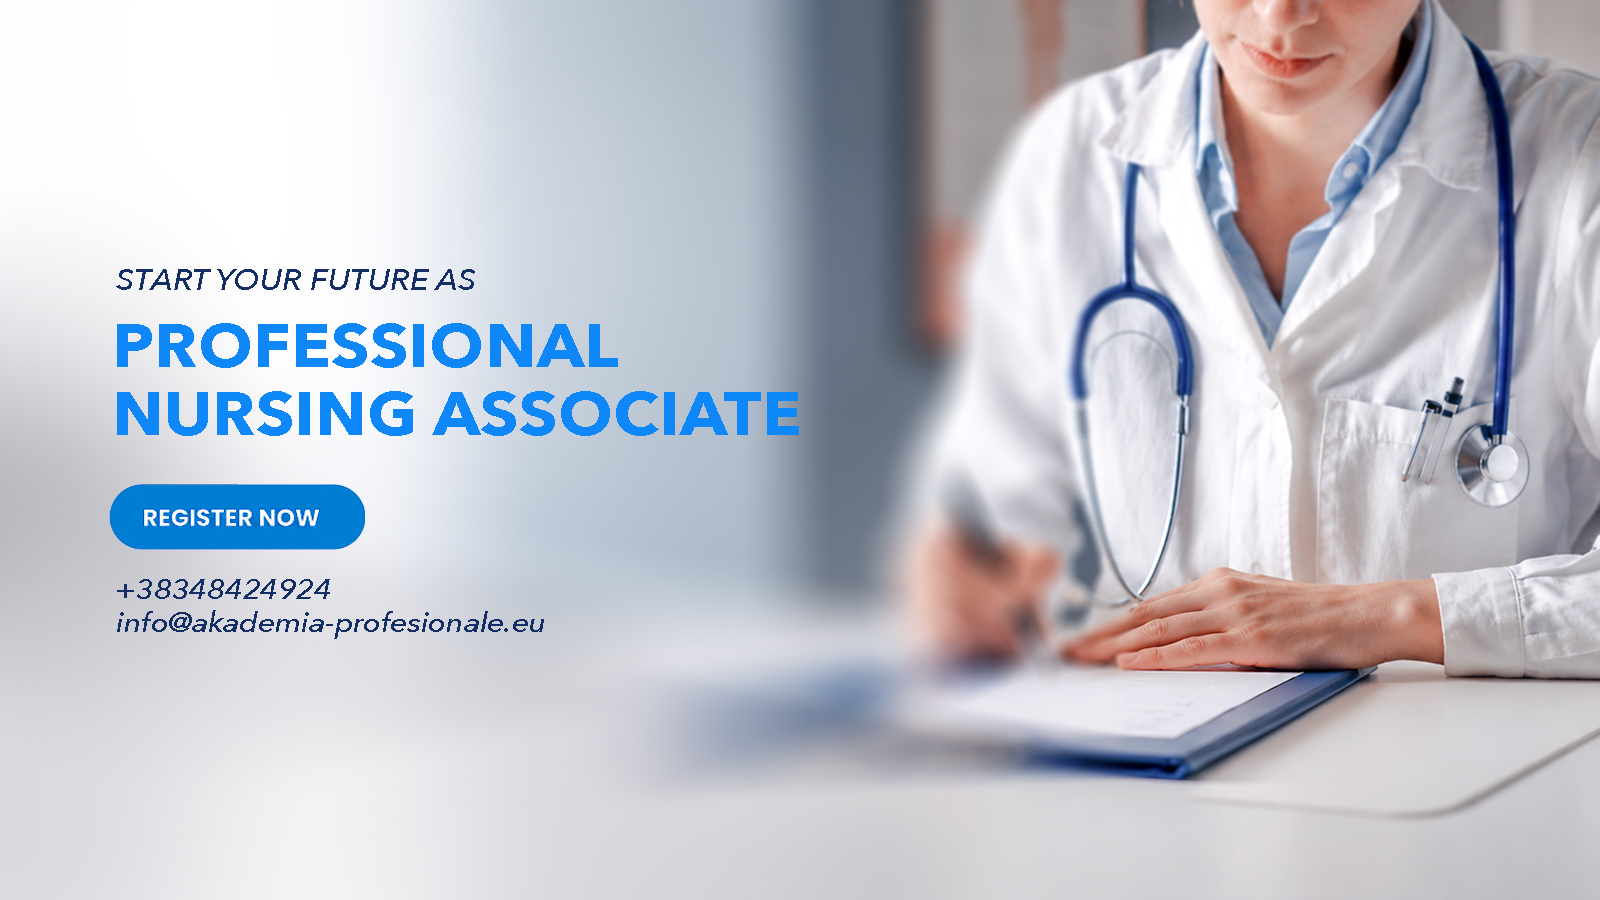
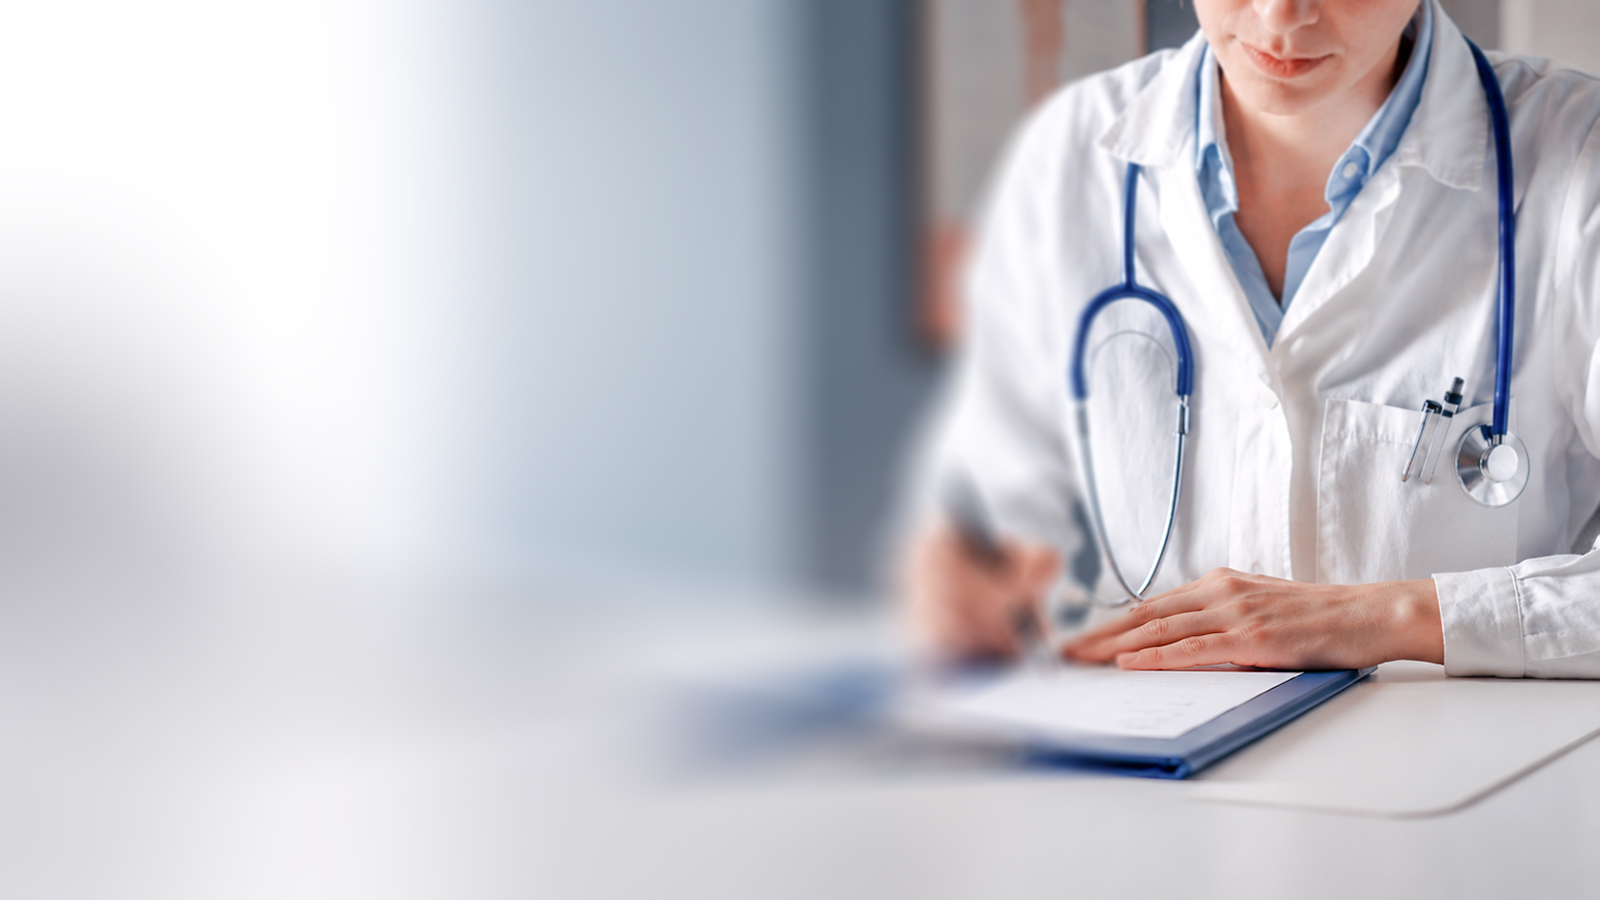
Add files via upload

Changed region(s): [[0.0625, 0.5289, 0.3438, 0.7156], [0.0625, 0.28, 0.375, 0.4044], [0.0625, 0.4356, 0.5, 0.4978]]

diff --git a/src/components/Hero.tsx b/src/components/Hero.tsx
@@ -1,5 +1,15 @@
 import React, { useState, useEffect } from 'react';
-import { ChevronLeft, ChevronRight, ArrowRight } from 'lucide-react';
+import { ChevronLeft, ChevronRight, Phone, Mail } from 'lucide-react';
+
+interface SlideData {
+  url: string;
+  alt: string;
+  subtitle: string;
+  title: string;
+  buttonColor: string;
+  buttonHoverColor: string;
+  buttonText: string;
+}
 
 export function Hero({ onApplyClick }: { onApplyClick?: () => void }) {
   const [imgUrls, setImgUrls] = useState<string[]>([
@@ -14,18 +24,33 @@ export function Hero({ onApplyClick }: { onApplyClick?: () => void }) {
     "https://images.unsplash.com/photo-1516534775068-ba3e84589d90?w=1600&h=900&fit=crop&q=80"
   ];
 
-  const images = [
+  const slides: SlideData[] = [
     {
       url: imgUrls[0],
-      alt: "Cheerful college students studying together"
+      alt: "Professional Nursing Associate - Akademia Profesionale Heimerer",
+      subtitle: "START YOUR FUTURE AS",
+      title: "PROFESSIONAL NURSING ASSOCIATE",
+      buttonColor: "bg-[#0084FF]",
+      buttonHoverColor: "hover:bg-[#0070E0]",
+      buttonText: "REGISTER NOW"
     },
     {
       url: imgUrls[1],
-      alt: "College student group collaborating"
+      alt: "Physiotherapy Assistant - Akademia Profesionale Heimerer",
+      subtitle: "START YOUR FUTURE AS",
+      title: "PHYSIOTHERAPY ASSISTANT",
+      buttonColor: "bg-[#F95700]",
+      buttonHoverColor: "hover:bg-[#E04E00]",
+      buttonText: "REGISTER NOW"
     },
     {
       url: imgUrls[2],
-      alt: "Youth students laughing at college campus"
+      alt: "Medical Laboratory Technician - Akademia Profesionale Heimerer",
+      subtitle: "START YOUR FUTURE AS",
+      title: "MEDICAL LABORATORY TECHNICIAN",
+      buttonColor: "bg-[#4EA81A]",
+      buttonHoverColor: "hover:bg-[#439316]",
+      buttonText: "REGISTER NOW"
     }
   ];
 
@@ -34,10 +59,10 @@ export function Hero({ onApplyClick }: { onApplyClick?: () => void }) {
   // Auto-scroll images every 5 seconds
   useEffect(() => {
     const interval = setInterval(() => {
-      setCurrentIndex((prev) => (prev + 1) % images.length);
+      setCurrentIndex((prev) => (prev + 1) % slides.length);
     }, 5000);
     return () => clearInterval(interval);
-  }, [images.length]);
+  }, [slides.length]);
 
   const handleImageError = (index: number) => {
     setImgUrls(prev => {
@@ -51,24 +76,24 @@ export function Hero({ onApplyClick }: { onApplyClick?: () => void }) {
 
   const handlePrev = (e: React.MouseEvent) => {
     e.stopPropagation();
-    setCurrentIndex((prev) => (prev - 1 + images.length) % images.length);
+    setCurrentIndex((prev) => (prev - 1 + slides.length) % slides.length);
   };
 
   const handleNext = (e: React.MouseEvent) => {
     e.stopPropagation();
-    setCurrentIndex((prev) => (prev + 1) % images.length);
+    setCurrentIndex((prev) => (prev + 1) % slides.length);
   };
 
   return (
     <section className="pt-2 pb-4 lg:pt-4 lg:pb-8 overflow-x-hidden bg-bg">
-      <div className="max-w-[96%] xl:max-w-[1400px] mx-auto px-4 sm:px-6 lg:px-8">
+      <div className="max-w-[96%] xl:max-w-[1400px] mx-auto px-2 sm:px-6 lg:px-8">
         
-        {/* Full-width container with 20% less height than 16:9 (aspect-[2.2/1] on large screens) */}
-        <div className="relative bg-white rounded-[2.5rem] flex flex-col justify-center overflow-hidden border border-border/40 min-h-[460px] lg:min-h-0 lg:aspect-[2.2/1] group">
+        {/* Full-width container with ~35% height reduction on mobile (min-h-[290px] sm:min-h-[380px] lg:min-h-0 lg:aspect-[2.2/1]) */}
+        <div className="relative bg-white rounded-[1.8rem] sm:rounded-[2.5rem] flex flex-col justify-center overflow-hidden border border-border/40 min-h-[290px] sm:min-h-[380px] lg:min-h-0 lg:aspect-[2.2/1] group shadow-sm">
           
           {/* Background image slider */}
           <div className="absolute inset-0 w-full h-full z-0">
-            {images.map((image, index) => (
+            {slides.map((slide, index) => (
               <div
                 key={index}
                 className={`absolute inset-0 w-full h-full transition-opacity duration-1000 ease-in-out ${
@@ -76,8 +101,8 @@ export function Hero({ onApplyClick }: { onApplyClick?: () => void }) {
                 }`}
               >
                 <img 
-                  src={image.url} 
-                  alt={image.alt} 
+                  src={slide.url} 
+                  alt={slide.alt} 
                   className="w-full h-full object-cover object-center"
                   referrerPolicy="no-referrer"
                   onError={() => handleImageError(index)}
@@ -85,31 +110,80 @@ export function Hero({ onApplyClick }: { onApplyClick?: () => void }) {
               </div>
             ))}
           </div>
+
+          {/* Left light gradient mask ensuring clean legibility for overlay text */}
+          <div className="absolute inset-0 z-1 bg-gradient-to-r from-white/95 via-white/85 to-transparent sm:from-white/90 sm:via-white/60 lg:via-white/30 max-w-full sm:max-w-[70%] pointer-events-none" />
           
-          {/* Content panel - Removed to allow custom text within slide images directly */}
-          <div className="relative z-10 w-full lg:w-[55%] p-8 sm:p-12 lg:p-20 flex flex-col justify-center h-full rounded-[2.5rem]" />
+          {/* Slide Text Content Overlay */}
+          <div className="relative z-10 w-full sm:w-[68%] lg:w-[55%] p-5 sm:p-10 lg:p-16 flex flex-col justify-center h-full">
+            {slides.map((slide, index) => (
+              <div
+                key={index}
+                className={`transition-all duration-700 ease-out flex flex-col justify-center ${
+                  index === currentIndex 
+                    ? 'opacity-100 translate-x-0' 
+                    : 'opacity-0 -translate-x-4 absolute pointer-events-none'
+                }`}
+              >
+                {/* Subtitle */}
+                <span className="font-sans italic font-bold tracking-wider text-slate-800 text-[11px] sm:text-sm lg:text-base uppercase">
+                  {slide.subtitle}
+                </span>
+
+                {/* Main Program Title */}
+                <h1 className="font-sans font-extrabold uppercase text-[#0084FF] text-lg sm:text-2xl md:text-3xl lg:text-4xl xl:text-[2.6rem] leading-[1.1] sm:leading-tight my-1.5 sm:my-3 max-w-lg">
+                  {slide.title}
+                </h1>
+
+                {/* Action Register Button */}
+                <div className="mt-1 sm:mt-2">
+                  <button
+                    onClick={onApplyClick}
+                    className={`inline-flex items-center justify-center px-5 py-2 sm:px-7 sm:py-2.5 rounded-full text-white font-black text-[11px] sm:text-xs lg:text-sm uppercase tracking-wider shadow-md ${slide.buttonColor} ${slide.buttonHoverColor} hover:shadow-lg transition-all transform hover:-translate-y-0.5 cursor-pointer active:scale-95`}
+                  >
+                    {slide.buttonText}
+                  </button>
+                </div>
+
+                {/* Contact Phone & Email */}
+                <div className="mt-2.5 sm:mt-4 space-y-0.5 font-sans italic text-slate-800 text-[11px] sm:text-xs lg:text-sm font-semibold">
+                  <div>
+                    <a href="tel:+38348424924" className="hover:text-primary transition-colors inline-flex items-center gap-1.5">
+                      +38348424924
+                    </a>
+                  </div>
+                  <div>
+                    <a href="mailto:info@akademia-profesionale.eu" className="hover:text-primary transition-colors inline-flex items-center gap-1.5">
+                      info@akademia-profesionale.eu
+                    </a>
+                  </div>
+                </div>
+
+              </div>
+            ))}
+          </div>
 
           {/* Navigation Controls */}
-          <div className="absolute bottom-6 right-6 z-20 flex items-center gap-4 bg-white/90 backdrop-blur-sm px-4 py-2.5 rounded-full border border-border/50 shadow-sm opacity-0 group-hover:opacity-100 transition-opacity duration-300">
+          <div className="absolute bottom-3 right-3 sm:bottom-6 sm:right-6 z-20 flex items-center gap-2 sm:gap-4 bg-white/90 backdrop-blur-sm px-3 py-1.5 sm:px-4 sm:py-2.5 rounded-full border border-border/50 shadow-sm opacity-90 sm:opacity-0 sm:group-hover:opacity-100 transition-opacity duration-300">
             <button 
               onClick={handlePrev}
               className="p-1 hover:bg-gray-100 rounded-full transition-colors cursor-pointer text-primary-dark"
-              aria-label="Previous image"
+              aria-label="Previous slide"
             >
-              <ChevronLeft size={20} />
+              <ChevronLeft className="w-4 h-4 sm:w-5 sm:h-5" />
             </button>
             
             {/* Dots */}
-            <div className="flex gap-2">
-              {images.map((_, index) => (
+            <div className="flex gap-1.5 sm:gap-2">
+              {slides.map((_, index) => (
                 <button
                   key={index}
                   onClick={(e) => {
                     e.stopPropagation();
                     setCurrentIndex(index);
                   }}
-                  className={`w-2.5 h-2.5 rounded-full transition-all cursor-pointer ${
-                    index === currentIndex ? 'bg-primary w-6' : 'bg-gray-300 hover:bg-gray-400'
+                  className={`h-2 rounded-full transition-all cursor-pointer ${
+                    index === currentIndex ? 'bg-[#0084FF] w-5 sm:w-6' : 'bg-gray-300 hover:bg-gray-400 w-2'
                   }`}
                   aria-label={`Go to slide ${index + 1}`}
                 />
@@ -119,36 +193,36 @@ export function Hero({ onApplyClick }: { onApplyClick?: () => void }) {
             <button 
               onClick={handleNext}
               className="p-1 hover:bg-gray-100 rounded-full transition-colors cursor-pointer text-primary-dark"
-              aria-label="Next image"
+              aria-label="Next slide"
             >
-              <ChevronRight size={20} />
+              <ChevronRight className="w-4 h-4 sm:w-5 sm:h-5" />
             </button>
           </div>
 
         </div>
       </div>
 
-      {/* Much smaller, compact stats block overlapping the hero */}
-      <div className="max-w-2xl mx-auto px-4 sm:px-6 lg:px-8 relative -mt-8 lg:-mt-10 z-20">
-        <div className="bg-white rounded-2xl p-4 lg:p-5 flex flex-row justify-between items-center gap-2 border border-border/50 shadow-[0_1px_3px_rgba(0,0,0,0),_0_1px_25px_-1px_rgba(0,0,0,0.08)]">
+      {/* Stats block overlapping the hero */}
+      <div className="max-w-2xl mx-auto px-4 sm:px-6 lg:px-8 relative -mt-6 sm:-mt-8 lg:-mt-10 z-20">
+        <div className="bg-white rounded-2xl p-3.5 sm:p-4 lg:p-5 flex flex-row justify-between items-center gap-2 border border-border/50 shadow-[0_1px_3px_rgba(0,0,0,0),_0_1px_25px_-1px_rgba(0,0,0,0.08)]">
           
           <div className="text-center flex-1">
-            <div className="text-2xl lg:text-3xl font-heading font-bold text-primary-dark">95%</div>
-            <div className="text-text-secondary text-[10px] lg:text-xs font-semibold uppercase tracking-wider mt-0.5">Employment Rate</div>
+            <div className="text-xl sm:text-2xl lg:text-3xl font-heading font-bold text-primary-dark">95%</div>
+            <div className="text-text-secondary text-[9px] sm:text-[10px] lg:text-xs font-semibold uppercase tracking-wider mt-0.5">Employment Rate</div>
           </div>
           
           <div className="w-px h-8 bg-border/80"></div>
           
           <div className="text-center flex-1">
-            <div className="text-2xl lg:text-3xl font-heading font-bold text-primary-dark">500+</div>
-            <div className="text-text-secondary text-[10px] lg:text-xs font-semibold uppercase tracking-wider mt-0.5">Active Students</div>
+            <div className="text-xl sm:text-2xl lg:text-3xl font-heading font-bold text-primary-dark">500+</div>
+            <div className="text-text-secondary text-[9px] sm:text-[10px] lg:text-xs font-semibold uppercase tracking-wider mt-0.5">Active Students</div>
           </div>
           
           <div className="w-px h-8 bg-border/80"></div>
           
           <div className="text-center flex-1">
-            <div className="text-2xl lg:text-3xl font-heading font-bold text-primary-dark">20+</div>
-            <div className="text-text-secondary text-[10px] lg:text-xs font-semibold uppercase tracking-wider mt-0.5">Clinical Partners</div>
+            <div className="text-xl sm:text-2xl lg:text-3xl font-heading font-bold text-primary-dark">20+</div>
+            <div className="text-text-secondary text-[9px] sm:text-[10px] lg:text-xs font-semibold uppercase tracking-wider mt-0.5">Clinical Partners</div>
           </div>
           
         </div>
